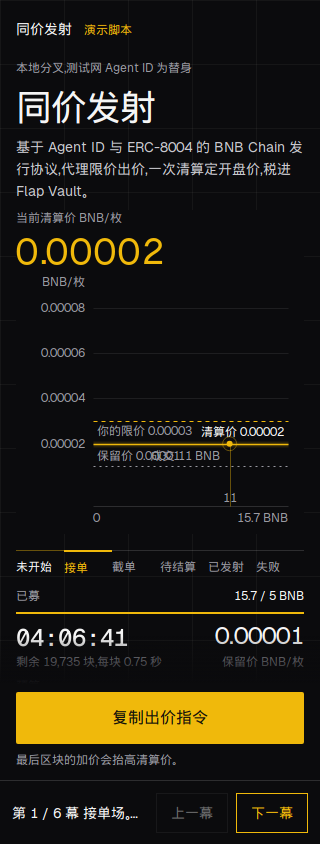
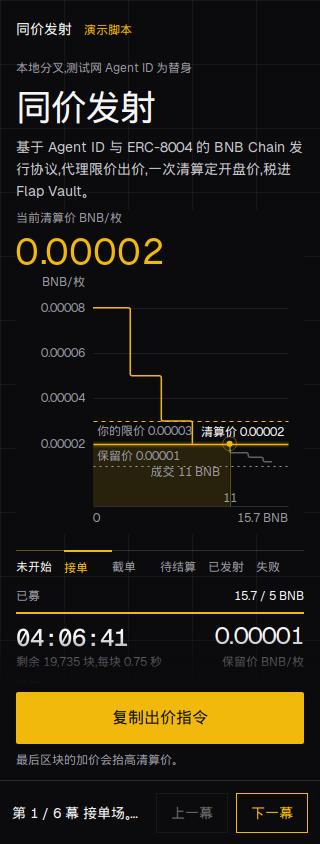
窄图上把成交额和保留价错开。

Changed region(s): [[0.2812, 0.4929, 0.7188, 0.6161], [0.5, 0.4313, 0.5312, 0.4929], [0.4062, 0.4313, 0.4375, 0.4621]]

diff --git a/web/src/PlotStage.tsx b/web/src/PlotStage.tsx
@@ -210,6 +210,11 @@ export function PlotStage({ bids, floor, clearing, failed, settle, intro, reduce
   const plot = resting ? ghost : shown;
   const hair = (n: number) => Math.round(n) + 0.5;
   const priceIn = yourPrice != null && clearing != null && yourPrice >= clearing;
+  const reserveLabelY = Math.min(plot.bottom - 4, Math.max(14, plot.reserveY + (plot.clearingY != null && Math.abs(plot.clearingY - plot.reserveY) < 18 ? 14 : -6)));
+  const filledLabelY = Math.min(plot.bottom - 16, (plot.clearingY ?? plot.bottom) + 16);
+  const filledLabelYSafe = vw <= 300 && Math.abs(filledLabelY - reserveLabelY) < 16
+    ? Math.min(plot.bottom - 4, reserveLabelY + 16)
+    : filledLabelY;
   return (
     <div className="stage" ref={stageRef}>
       <svg
@@ -260,7 +265,7 @@ export function PlotStage({ bids, floor, clearing, failed, settle, intro, reduce
           {!failed && !plot.inStroke && plot.stroke && <path className="step" d={plot.stroke} />}
         </g>
         <line className="reserve" x1={hair(plot.left)} x2={hair(plot.right)} y1={hair(plot.reserveY)} y2={hair(plot.reserveY)} />
-        <text className="tick" x={plot.left + 4} y={Math.min(plot.bottom - 4, Math.max(14, plot.reserveY + (plot.clearingY != null && Math.abs(plot.clearingY - plot.reserveY) < 18 ? 14 : -6)))}>
+        <text className="tick" x={plot.left + 4} y={reserveLabelY}>
           保留价 {formatPrice(floor)}
         </text>
         {plot.yourY != null && (
@@ -282,7 +287,7 @@ export function PlotStage({ bids, floor, clearing, failed, settle, intro, reduce
             <text
               className="tick"
               x={(plot.right - (plot.crossX ?? plot.left)) < 96 ? (plot.crossX ?? plot.left) - 10 : (plot.crossX ?? plot.left) + 10}
-              y={Math.min(plot.bottom - 16, (plot.clearingY ?? plot.bottom) + 16)}
+              y={filledLabelYSafe}
               textAnchor={(plot.right - (plot.crossX ?? plot.left)) < 96 ? "end" : "start"}
             >
               成交 {formatBnb(plot.filled)} BNB

diff --git a/docs/work-log.md b/docs/work-log.md
@@ -51,3 +51,5 @@ Wed Nov 25 08:02:17 PM UTC 2026
 删掉演示脚本页留下的样式。未签名出价交易能解回最高价、来源和身份编号。
 Wed Nov 25 08:02:39 PM UTC 2026
 身份编号不是整数时直接说明，不再报没有完成。README 里的曲线单价比和 why.json 对得上。
+Wed Nov 25 08:03:27 PM UTC 2026
+320 宽的图上，成交额标注和保留价叠在一起。只在图宽不超过 300 时把成交额往下挪 16 像素。390 的图仍是 260 高、刻度 12、viewBox 358。
